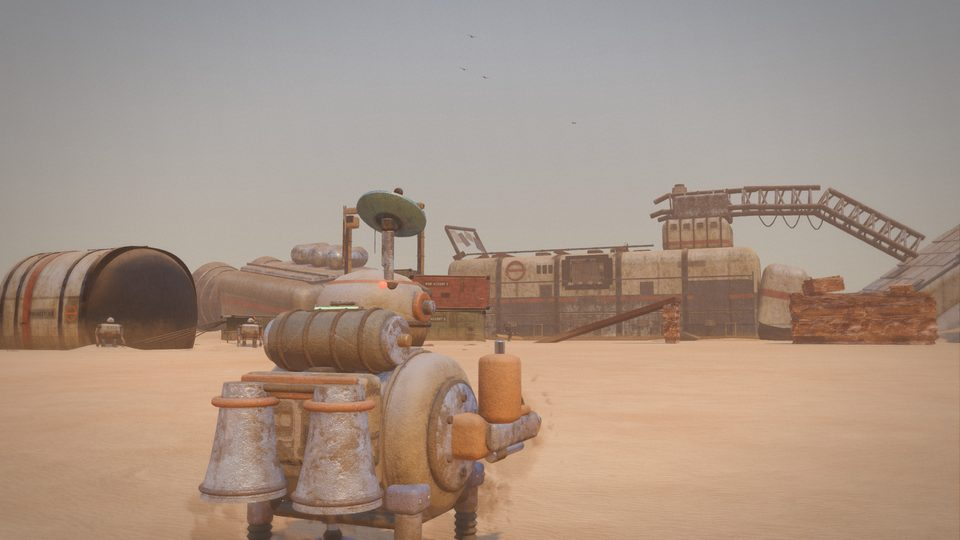
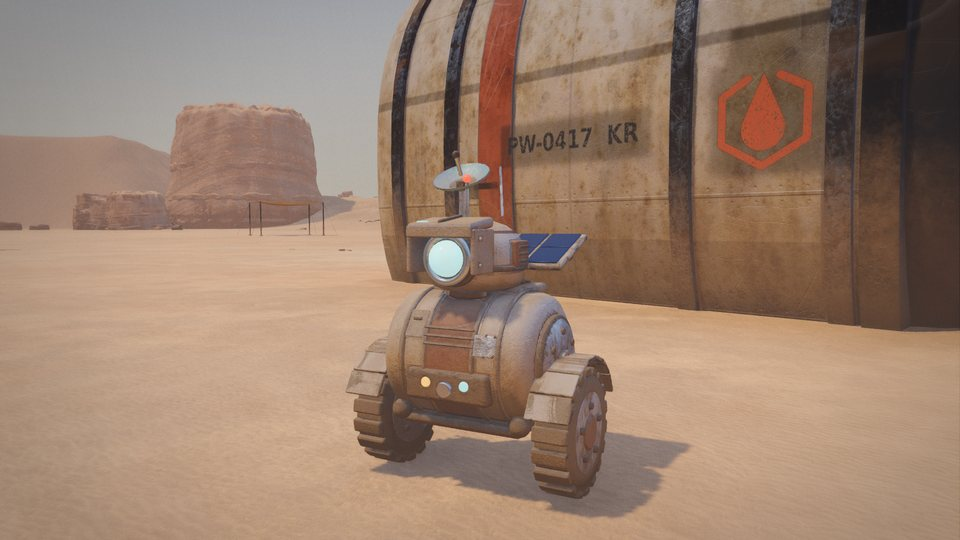
ScrappWars 0.6.0.1: release notes and website

diff --git a/docs/index.html b/docs/index.html
@@ -9,7 +9,10 @@
 <meta property="og:description" content="A small scrapper. A big desert. A war that never got its last message.">
 <meta property="og:image" content="https://robertagterhuis.github.io/Game-ScrappWars/media/poster.jpg">
 <meta property="og:type" content="website">
-<link rel="icon" href="media/icon.svg" type="image/svg+xml">
+<link rel="icon" href="media/favicon-32.png" type="image/png" sizes="32x32">
+<link rel="icon" href="media/favicon-16.png" type="image/png" sizes="16x16">
+<link rel="icon" href="media/icon-512.png" type="image/png" sizes="512x512">
+<link rel="apple-touch-icon" href="media/apple-touch-icon.png" sizes="180x180">
 <style>
 @font-face { font-family: "Rajdhani"; src: url("fonts/Rajdhani-Bold.ttf") format("truetype"); font-weight: 700; font-display: swap; }
 @font-face { font-family: "Rajdhani"; src: url("fonts/Rajdhani-SemiBold.ttf") format("truetype"); font-weight: 600; font-display: swap; }
@@ -253,7 +256,7 @@ footer a { color: var(--sand); }
 			<h1>SCRAPPWARS</h1>
 			<p class="tagline">A small scrapper. A big desert. A war that never got its last message.</p>
 			<a class="button" href="https://github.com/RobertAgterhuis/Game-ScrappWars/releases/latest">Download for Windows</a>
-			<p class="meta">Version 0.6.0 for Windows 10 and 11 (64-bit), 262 MB. Free.</p>
+			<p class="meta">Version 0.6.0 fix 1 for Windows 10 and 11 (64-bit), 282 MB. Free.</p>
 		</div>
 	</div>
 
@@ -265,14 +268,14 @@ footer a { color: var(--sand); }
 				<p>Every part you salvage changes how you move, not just a number: magnet legs walk up a hull, a thruster carries you across a gap, spider legs climb what nothing else can. Your body is your skill tree, and the desert is the map of what it can do.</p>
 				<ul class="facts">
 					<li><strong>Parts, not stats</strong>Wheels, mag-legs, spider legs, thruster, grapple, torch, scanner, shield, EMP and more, swapped at a workbench.</li>
-					<li><strong>A living desert</strong>Day and night, heat, sandstorms, eclipses, a worm that hunts by vibration.</li>
+					<li><strong>A living desert</strong>Day and night, heat, sandstorms, eclipses, and something armoured that ploughs through the deep sand.</li>
 					<li><strong>Story in the scrap</strong>Twenty memory cores, read aloud by the crews who left them.</li>
 					<li><strong>Your pace</strong>Easy, Medium, Hard or Ultra, switchable at any time.</li>
 				</ul>
 			</div>
 			<figure>
 				<img src="media/sd7-960.jpg" srcset="media/sd7-960.jpg 960w, media/sd7.jpg 1920w" sizes="(max-width: 860px) 100vw, 45vw"
-					width="1920" height="1080" alt="SD-7, a small round scrapper with a thruster and a dish on its head, in front of a rusting freighter">
+					width="1920" height="1080" alt="SD-7, a small scrapper on wheels with a camera visor, a dish and a solar panel, beside an escape pod painted with the relief mark">
 				<figcaption>SD-7, built from whatever it finds.</figcaption>
 			</figure>
 		</div>
@@ -361,7 +364,7 @@ footer a { color: var(--sand); }
 			<div>
 				<h2>Install</h2>
 				<ol class="steps">
-					<li>Download <code>ScrappWars-0.6.0.0-windows-x64.zip</code> from the <a href="https://github.com/RobertAgterhuis/Game-ScrappWars/releases/latest">newest release</a>.</li>
+					<li>Download <code>ScrappWars-0.6.0.1-windows-x64.zip</code> from the <a href="https://github.com/RobertAgterhuis/Game-ScrappWars/releases/latest">newest release</a>.</li>
 					<li>Unpack it anywhere.</li>
 					<li>Run <code>ScrappWarsUpdater.exe</code> in the unpacked folder. It checks every file, installs the game into <code>%LOCALAPPDATA%\Programs\ScrappWars</code>, adds it to the Start menu and starts it. No administrator rights needed.</li>
 				</ol>

diff --git a/CHANGELOG.md b/CHANGELOG.md
@@ -2,6 +2,32 @@
 
 Every released version of ScrappWars, newest first. Downloads: [releases](https://github.com/RobertAgterhuis/Game-ScrappWars/releases).
 
+## 0.6.0 fix 1 (0.6.0.1, 2026-10-29)
+
+A polish update: faster start-up, menus that fit every screen, a new icon and more of Kessra's own look.
+
+### Faster start
+
+- **From about 37 to about 9 seconds** to a playable world on a fast PC (Ultra); Low starts in about 8. The world is exactly the same: what used to be worked out on every start is now prepared once.
+- **A real loading screen** with progress and tips instead of a frozen frame, and our own start-up image instead of the engine logo.
+
+### Menus
+
+- **Settings always fit:** every settings page scrolls between a fixed title and a fixed Back button, at any window size and interface scale.
+- **Esc or gamepad B** goes back one page everywhere, and closes the settings from the top page.
+- The title screen fills the whole window, without black bars.
+
+### Look
+
+- **SD-7's new paint:** sun-faded oxide red on cream, with a deeper visor over its eye. Signal orange is still at the painter.
+- **A new sand worm:** an armoured, forward-leaning head with a plated nose and side mandibles that snap shut.
+- **A new relief emblem:** a water drop in an open shield, on the escape pod and the relief wrecks.
+- **A new game icon** for the game, its window, the updater and the website.
+
+### For testers
+
+- A playtest kit (plan, tester handout in Dutch and English, observation sheet) for the coming test round.
+
 ## 0.6.0 (0.6.0.0, 2026-10-29)
 
 The first big update after release: a full director's pass over the story, the play, the look and the controls.
